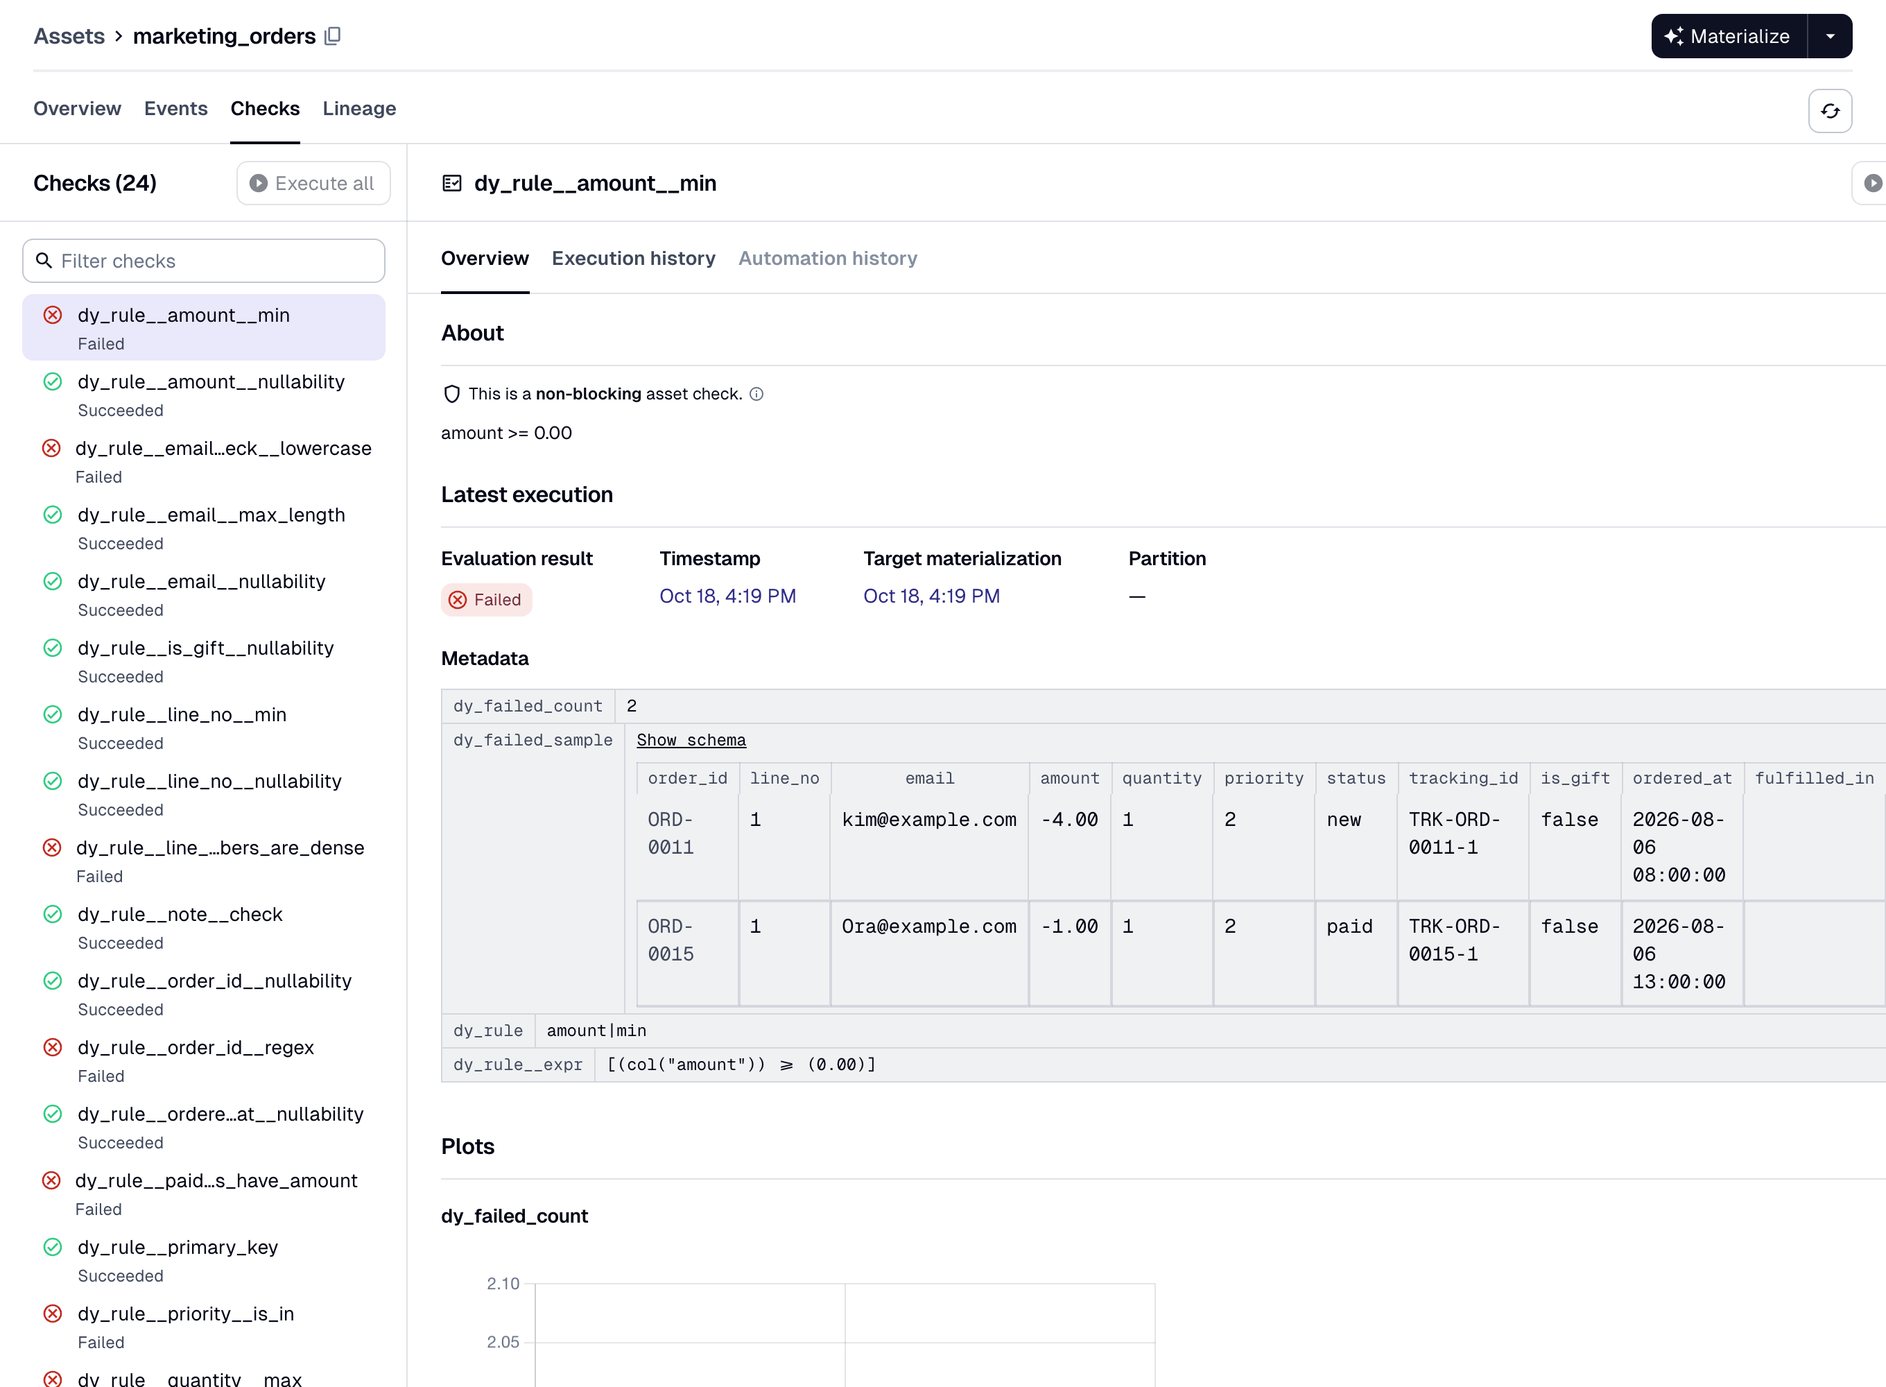
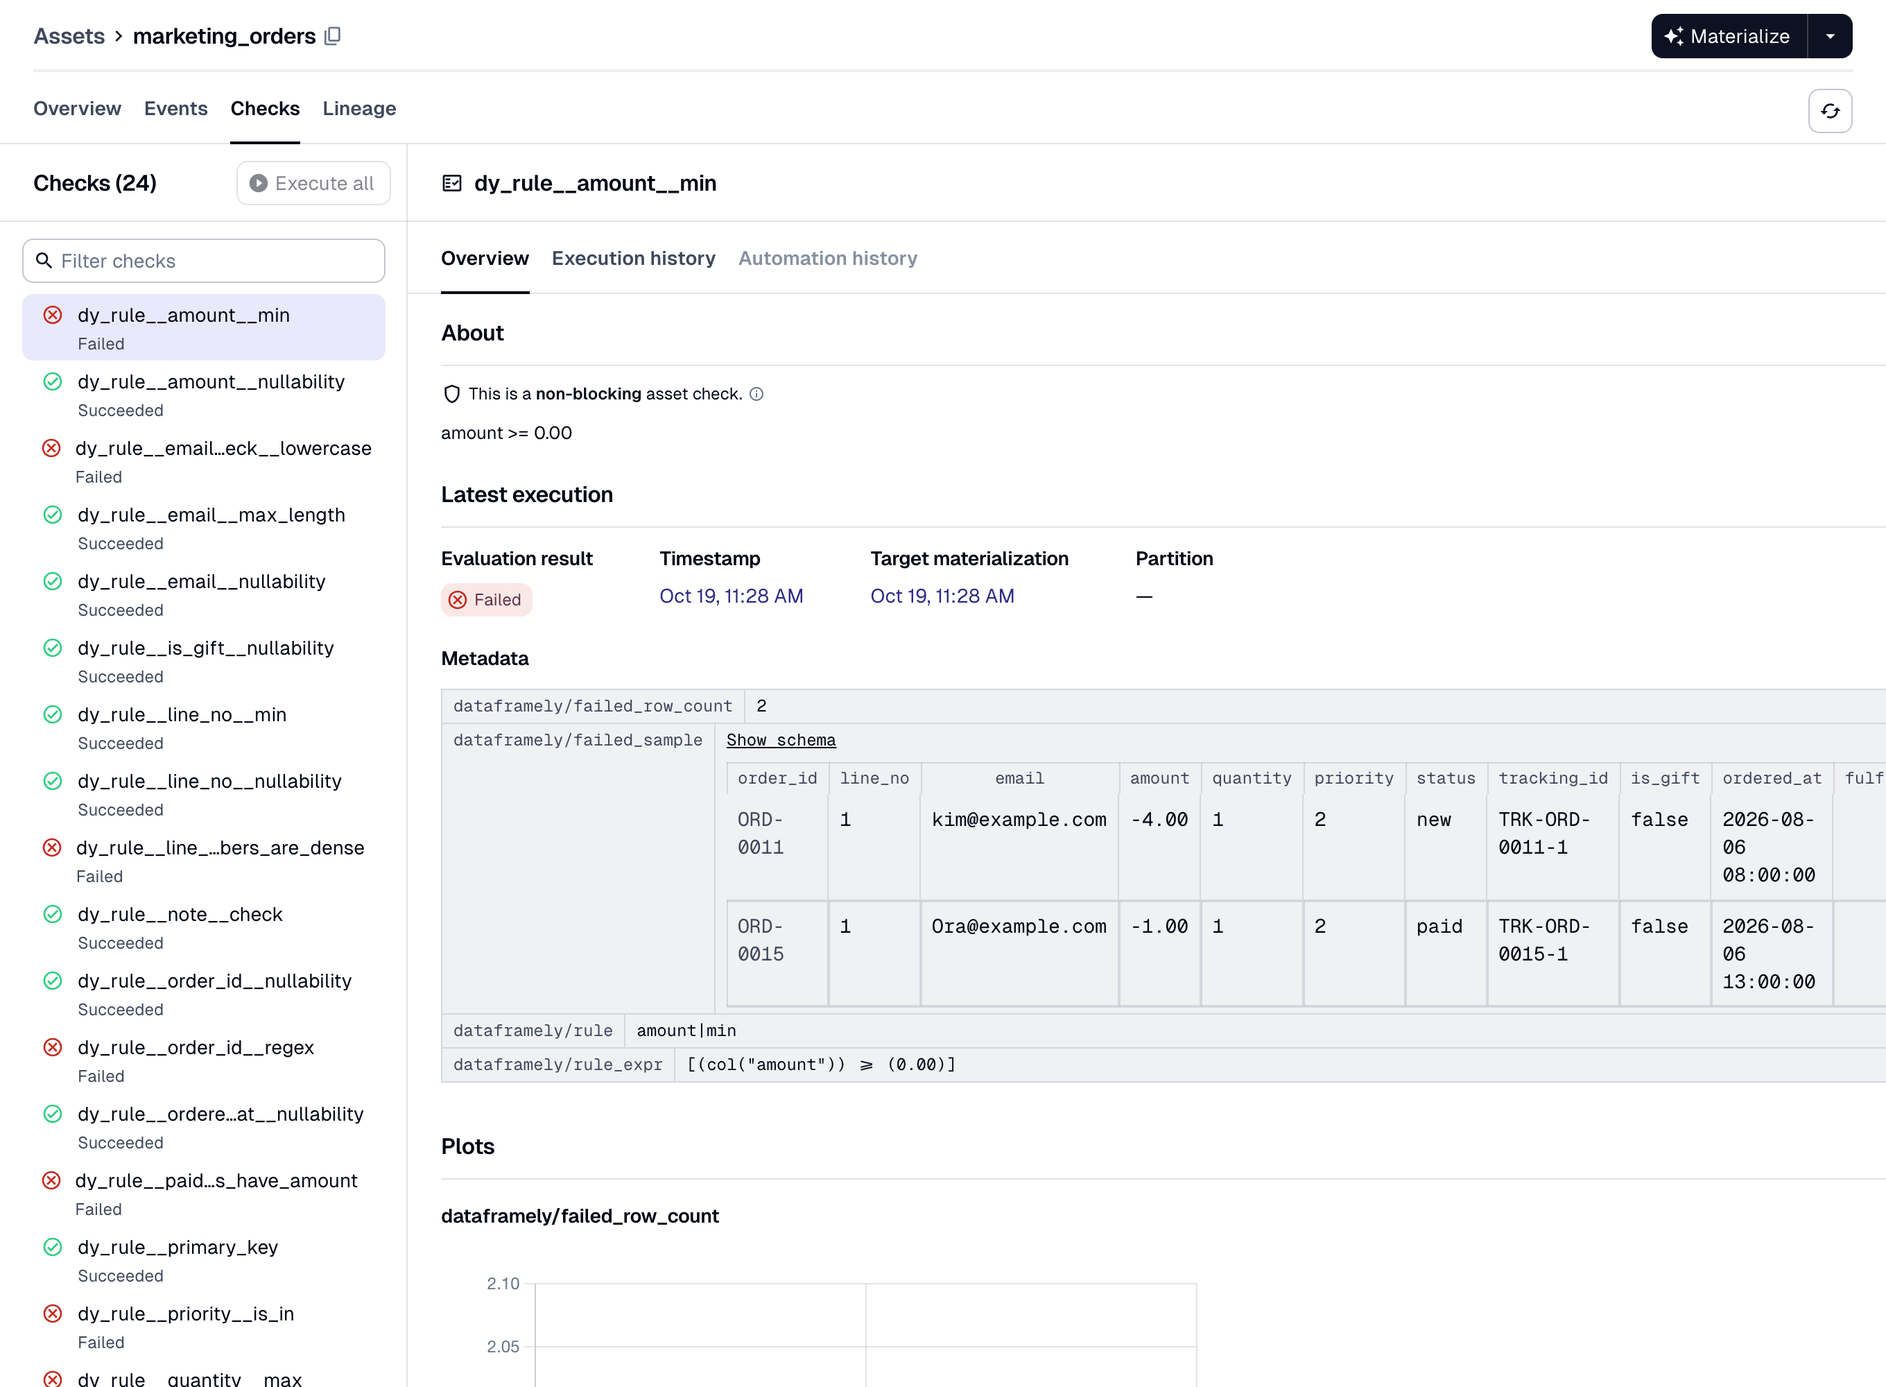
feat!: name every check-result metadata key under dataframely/
| Old key | New key |
| --- | --- |
| `dy_rule` | `dataframely/rule` |
| `dy_rule__expr` | `dataframely/rule_expr` |
| `dy_failed_count` | `dataframely/failed_row_count` |
| `dy_failed_sample` | `dataframely/failed_sample` |
| `dy_rules` | `dataframely/rules` |
| `dy_schema__errors` | `dataframely/column_schema_errors` |
| `dy_filter` | `dataframely/filter` |

`dy_` now covers only check names, rule columns and the `dy_rule` column in a collapsed check's sample.
`failed_row_count` follows dagster-dbt's `dagster_dbt/failed_row_count`.

Closes #136

diff --git a/tests/test_samples.py b/tests/test_samples.py
@@ -207,9 +207,9 @@ class TestFailureSamples:
     def test_a_failing_check_has_the_rows_that_failed_it(self, tmp_path: Path):
         result = materialize(tmp_path, _with_error_rows)
         metadata = check_evaluations(result)["dy_rule__amount__min"].metadata
-        sampled = records(metadata["dy_failed_sample"])
+        sampled = records(metadata["dataframely/failed_sample"])
 
-        assert metadata["dy_failed_count"].value == 1
+        assert metadata["dataframely/failed_row_count"].value == 1
         assert [row["order_id"] for row in sampled] == ["ORD-4"]
         assert sampled[0]["amount"] == "-4.00"
 
@@ -220,7 +220,7 @@ class TestFailureSamples:
         result = materialize(tmp_path, _with_error_rows)
         sampled = records(
             check_evaluations(result)["dy_rule__amount__min"].metadata[
-                "dy_failed_sample"
+                "dataframely/failed_sample"
             ]
         )
 
@@ -230,8 +230,8 @@ class TestFailureSamples:
         result = materialize(tmp_path, _with_error_rows)
         metadata = check_evaluations(result)["dy_rule__quantity__min"].metadata
 
-        assert "dy_failed_sample" not in metadata
-        assert {"dy_rule", "dy_rule__expr"} <= set(metadata)
+        assert "dataframely/failed_sample" not in metadata
+        assert {"dataframely/rule", "dataframely/rule_expr"} <= set(metadata)
 
     def test_the_failure_sample_is_bounded(self, tmp_path: Path):
         @dd.asset(Orders, name="orders", filter=True)
@@ -241,8 +241,8 @@ class TestFailureSamples:
         result = materialize(tmp_path, many_invalid)
         metadata = check_evaluations(result)["dy_rule__amount__min"].metadata
 
-        assert metadata["dy_failed_count"].value == _DEFAULT * 2
-        assert len(records(metadata["dy_failed_sample"])) == _DEFAULT
+        assert metadata["dataframely/failed_row_count"].value == _DEFAULT * 2
+        assert len(records(metadata["dataframely/failed_sample"])) == _DEFAULT
 
     def test_a_failure_sample_of_zero_leaves_the_key_absent_rather_than_empty(
         self,
@@ -260,8 +260,8 @@ class TestFailureSamples:
         result = materialize(tmp_path, unsampled)
         metadata = check_evaluations(result)["dy_rule__amount__min"].metadata
 
-        assert "dy_failed_sample" not in metadata
-        assert metadata["dy_failed_count"].value == 1
+        assert "dataframely/failed_sample" not in metadata
+        assert metadata["dataframely/failed_row_count"].value == 1
 
     def test_the_environment_variable_sets_the_failure_sample(
         self, tmp_path: Path, monkeypatch: pytest.MonkeyPatch
@@ -275,7 +275,7 @@ class TestFailureSamples:
         result = materialize(tmp_path, orders)
 
         assert (
-            "dy_failed_sample"
+            "dataframely/failed_sample"
             not in check_evaluations(result)["dy_rule__amount__min"].metadata
         )
 
@@ -289,7 +289,7 @@ class TestFailureSamples:
         result = materialize(tmp_path, aborting, raise_on_error=False)
         sampled = records(
             check_evaluations(result)["dy_rule__amount__min"].metadata[
-                "dy_failed_sample"
+                "dataframely/failed_sample"
             ]
         )
 
@@ -302,7 +302,9 @@ class TestFailureSamples:
         """The `dy_` namespace keeps the `dy_rule` column apart from the schema's columns."""
         result = materialize(tmp_path, _by_column)
         sampled = records(
-            check_evaluations(result)["dy_col__amount"].metadata["dy_failed_sample"]
+            check_evaluations(result)["dy_col__amount"].metadata[
+                "dataframely/failed_sample"
+            ]
         )
 
         assert [row["dy_rule"] for row in sampled] == ["amount|min"]
@@ -314,7 +316,9 @@ class TestFailureSamples:
         """The bound is per rule, so a rule one row failed still appears beside a rule many rows failed."""
         result = materialize(tmp_path, _by_column)
         sampled = records(
-            check_evaluations(result)["dy_schema__rules"].metadata["dy_failed_sample"]
+            check_evaluations(result)["dy_schema__rules"].metadata[
+                "dataframely/failed_sample"
+            ]
         )
 
         assert [row["dy_rule"] for row in sampled] == ["paid_orders_have_amount"]
@@ -337,7 +341,7 @@ class TestSampleSettings:
         ]
         assert "dataframely/table_sample" in metadata
         assert (
-            "dy_failed_sample"
+            "dataframely/failed_sample"
             in check_evaluations(result)["dy_rule__amount__min"].metadata
         )
 
@@ -358,7 +362,7 @@ class TestSampleSettings:
         assert "dataframely/table_statistics/numeric" in metadata
         assert "dataframely/table_sample" not in metadata
         assert (
-            "dy_failed_sample"
+            "dataframely/failed_sample"
             not in check_evaluations(result)["dy_rule__amount__min"].metadata
         )
 

diff --git a/tests/test_asset_runtime.py b/tests/test_asset_runtime.py
@@ -89,8 +89,8 @@ class TestCleanFrame:
         ]
         metadata = dict(evaluation.metadata)
 
-        assert metadata["dy_rule"].value == "amount|min"
-        assert 'col("amount")' in str(metadata["dy_rule__expr"].value)
+        assert metadata["dataframely/rule"].value == "amount|min"
+        assert 'col("amount")' in str(metadata["dataframely/rule_expr"].value)
 
 
 # `_REJECTED_RETURNS` in `tests/test_returned_result.py` covers the frame guard, in a call and in a run.
@@ -270,7 +270,7 @@ class TestColumnSchemaMismatch:
     ):
         result = materialize(tmp_path, _wrong_dtype, raise_on_error=False)
         metadata = dict(check_evaluations(result)["dy_schema__columns"].metadata)
-        errors = metadata["dy_schema__errors"]
+        errors = metadata["dataframely/column_schema_errors"]
 
         assert isinstance(errors, dg.TableMetadataValue)
         assert [dict(record.data) for record in errors.records] == [
@@ -315,7 +315,9 @@ class TestErrorRowsWithoutFilter:
             "dy_rule__paid_orders_have_amount",
         }
         assert (
-            dict(evaluations["dy_rule__amount__min"].metadata)["dy_failed_count"].value
+            dict(evaluations["dy_rule__amount__min"].metadata)[
+                "dataframely/failed_row_count"
+            ].value
             == 1
         )
 
@@ -423,7 +425,10 @@ class TestFilterWithValidRows:
 
         assert any(e.passed for e in rules)
         assert any(not e.passed for e in rules)
-        assert all({"dy_rule", "dy_rule__expr"} <= set(e.metadata) for e in rules)
+        assert all(
+            {"dataframely/rule", "dataframely/rule_expr"} <= set(e.metadata)
+            for e in rules
+        )
 
     def test_downstream_proceeds_on_the_data_that_is_fine(self, tmp_path: Path):
         """The rules' checks are not blocking, so the downstream asset runs on the valid rows."""
@@ -582,7 +587,9 @@ class TestFilterWithNoValidRows:
             e.severity == dg.AssetCheckSeverity.ERROR for e in rules if not e.passed
         )
         assert (
-            dict(evaluations["dy_rule__amount__min"].metadata)["dy_failed_count"].value
+            dict(evaluations["dy_rule__amount__min"].metadata)[
+                "dataframely/failed_row_count"
+            ].value
             == 2
         )
 
@@ -751,7 +758,7 @@ def _by_schema() -> pl.DataFrame:
 
 def _members(evaluation: dg.AssetCheckEvaluation) -> dict[object, object]:
     """Return the failure count of each rule in a collapsed check."""
-    table = dict(evaluation.metadata)["dy_rules"]
+    table = dict(evaluation.metadata)["dataframely/rules"]
     assert isinstance(table, dg.TableMetadataValue)
     return {record.data["rule"]: record.data["failed"] for record in table.records}
 
@@ -793,7 +800,7 @@ class TestCollapsedChecks:
         evaluation = check_evaluations(materialize(tmp_path, _by_column))[
             "dy_col__amount"
         ]
-        table = dict(evaluation.metadata)["dy_rules"]
+        table = dict(evaluation.metadata)["dataframely/rules"]
 
         assert isinstance(table, dg.TableMetadataValue)
         assert all(record.data["expr"] for record in table.records)
@@ -836,6 +843,23 @@ class TestCollapsedChecks:
 
         assert "dy_rule__amount__min" in error_rows.columns
         assert not [name for name in error_rows.columns if name.startswith("dy_col__")]
+
+
+class TestMetadataKeys:
+    """The metadata keys of a failing check."""
+
+    @pytest.mark.parametrize(
+        ("asset", "check"),
+        [(_filtered, "dy_rule__amount__min"), (_by_column, "dy_col__amount")],
+        ids=["rule", "column"],
+    )
+    def test_a_failing_check_names_every_key_under_dataframely(
+        self, tmp_path: Path, asset: dg.AssetsDefinition, check: str
+    ):
+        evaluation = check_evaluations(materialize(tmp_path, asset))[check]
+
+        assert not evaluation.passed
+        assert all(key.startswith("dataframely/") for key in evaluation.metadata)
 
 
 _ADDRESS = "orders__error_rows"

diff --git a/src/dagster_dataframely/_checks.py b/src/dagster_dataframely/_checks.py
@@ -208,7 +208,7 @@ def column_schema_result(
         passed=False,
         severity=dg.AssetCheckSeverity.ERROR,
         metadata={
-            "dy_schema__errors": dg.MetadataValue.table([
+            "dataframely/column_schema_errors": dg.MetadataValue.table([
                 dg.TableRecord(problem) for problem in problems
             ])
         },
@@ -271,12 +271,13 @@ def _rule_metadata(
 ) -> dict[str, str | int | dg.TableMetadataValue]:
     """Return the metadata of a check for one rule."""
     metadata: dict[str, str | int | dg.TableMetadataValue] = {
-        "dy_rule": rule.name,
-        "dy_rule__expr": str(rule.expr),
+        "dataframely/rule": rule.name,
+        "dataframely/rule_expr": str(rule.expr),
     }
     if failed:
-        metadata["dy_failed_count"] = failed
-    return metadata | sample_metadata("dy_failed_sample", sampled)
+        # The key follows dagster-dbt's `dagster_dbt/failed_row_count`.
+        metadata["dataframely/failed_row_count"] = failed
+    return metadata | sample_metadata("dataframely/failed_sample", sampled)
 
 
 def _collapsed_metadata(
@@ -286,7 +287,7 @@ def _collapsed_metadata(
 ) -> dict[str, dg.TableMetadataValue]:
     """Return the metadata of a check for several rules."""
     metadata: dict[str, dg.TableMetadataValue] = {
-        "dy_rules": dg.MetadataValue.table([
+        "dataframely/rules": dg.MetadataValue.table([
             dg.TableRecord({
                 "rule": rule.name,
                 "failed": failed[rule.name],
@@ -300,7 +301,7 @@ def _collapsed_metadata(
         for rule in rules
         for row in sampled.get(rule.name, [])
     ]
-    return metadata | sample_metadata("dy_failed_sample", attributed)
+    return metadata | sample_metadata("dataframely/failed_sample", attributed)
 
 
 def rule_check_results(  # noqa: PLR0913 - takes the specs' settings

diff --git a/tests/test_collection_checks.py b/tests/test_collection_checks.py
@@ -331,9 +331,12 @@ class TestRun:
         evaluation = evaluations(result)[ORDERS_CHECK]
         assert not evaluation.passed
         assert evaluation.severity == dg.AssetCheckSeverity.ERROR
-        assert evaluation.metadata["dy_filter"].value == "order_references_customer"
-        assert evaluation.metadata["dy_failed_count"].value == 1
-        assert records(evaluation.metadata["dy_failed_sample"]) == [
+        assert (
+            evaluation.metadata["dataframely/filter"].value
+            == "order_references_customer"
+        )
+        assert evaluation.metadata["dataframely/failed_row_count"].value == 1
+        assert records(evaluation.metadata["dataframely/failed_sample"]) == [
             {"order_id": 12, "customer_id": 99}
         ]
 
@@ -344,9 +347,12 @@ class TestRun:
 
         evaluation = evaluations(result)[ORDERS_CHECK]
         assert evaluation.passed
-        assert evaluation.metadata["dy_filter"].value == "order_references_customer"
-        assert "dy_failed_count" not in evaluation.metadata
-        assert "dy_failed_sample" not in evaluation.metadata
+        assert (
+            evaluation.metadata["dataframely/filter"].value
+            == "order_references_customer"
+        )
+        assert "dataframely/failed_row_count" not in evaluation.metadata
+        assert "dataframely/failed_sample" not in evaluation.metadata
 
     def test_a_failing_error_check_stops_its_members_downstream_asset(
         self, tmp_path: Path

diff --git a/src/dagster_dataframely/_asset.py b/src/dagster_dataframely/_asset.py
@@ -107,7 +107,7 @@ def asset(  # noqa: PLR0913 - forwards `@dg.asset`'s parameters
     schema_rules
         Which checks report the schema-level rules at `column` granularity: `collapsed` into one check, `dy_schema__rules`, or `per_rule`, one check each. `None` uses `DAGSTER_DATAFRAMELY_SCHEMA_RULES` if set, else `collapsed`.
     max_failure_samples
-        A rule's check metadata has at most this many rows that failed it, under `dy_failed_sample`. **A run writes the rows to the Dagster event log unredacted.** `dy.Config.set_max_failure_examples` does not change this number. `None` uses `DAGSTER_DATAFRAMELY_MAX_FAILURE_SAMPLES` if set, else `5`.
+        A rule's check metadata has at most this many rows that failed it, under `dataframely/failed_sample`. **A run writes the rows to the Dagster event log unredacted.** `dy.Config.set_max_failure_examples` does not change this number. `None` uses `DAGSTER_DATAFRAMELY_MAX_FAILURE_SAMPLES` if set, else `5`.
     statistics
         Whether the materialization metadata has statistics of the written rows, one table per dtype group. `None` uses `DAGSTER_DATAFRAMELY_STATISTICS` if set, else `True`.
     row_sample

diff --git a/src/dagster_dataframely/_collection.py b/src/dagster_dataframely/_collection.py
@@ -165,15 +165,15 @@ def collection_checks(
                 continue
             failed: int = failure[check.member].counts().get(check.filter_name, 0)
             metadata: dict[str, str | int | dg.TableMetadataValue] = {
-                "dy_filter": check.filter_name
+                "dataframely/filter": check.filter_name
             }
             if failed:
                 # The member's own columns, without the rule columns `details()` adds.
                 columns: list[str] = lazy_frames[check.member].collect_schema().names()
                 details: pl.DataFrame = failure[check.member].details()
-                metadata["dy_failed_count"] = failed
+                metadata["dataframely/failed_row_count"] = failed
                 metadata |= sample_metadata(
-                    "dy_failed_sample",
+                    "dataframely/failed_sample",
                     sample_rows(
                         details.filter(pl.col(check.filter_name) == "invalid").select(
                             columns

diff --git a/tests/test_testing.py b/tests/test_testing.py
@@ -80,7 +80,7 @@ class TestDirectInvocationResult:
         assert_frame_equal(result.materialization.value, clean_orders())
         failed = result.checks["dy_rule__amount__min"]
         assert not failed.passed
-        assert "dy_failed_sample" in failed.metadata
+        assert "dataframely/failed_sample" in failed.metadata
 
     def test_a_warn_only_failure_keeps_every_row_and_fails_at_warn(self):
         @dd.asset(Amounts)

diff --git a/CONTEXT.md b/CONTEXT.md
@@ -196,10 +196,9 @@ A sample is absent, never empty.
 _Avoid_: preview, example, head
 
 **Reserved namespace**: Three namespaces.
-`dy_` starts every check name, rule column and check-result metadata key this package generates, and nothing a user types.
+`dy_` starts every check name, every rule column and the `dy_rule` column of a collapsed check's sample, and nothing a user types.
 So the decorator is `dd.asset`, not `dy_asset`.
-The error-rows address is the exception: when the package writes no table, the table has no materialization, so each check result has `dataframely/error_rows_address`, the same key the table's materialization uses (ADR-0004).
-`dataframely/` starts every materialization and definition metadata key this package names, as `dagster/` does for Dagster.
+`dataframely/` starts every metadata key this package names, on a materialization, a definition or a check result, as `dagster/` does for Dagster.
 The valid row count is the exception, because Dagster already has keys for it: `dagster/partition_row_count` on a partitioned asset, and `dagster/row_count` otherwise.
 `<name>__error_rows` is the default error-rows key.
 Only this package generates names in the first two.

diff --git a/README.md b/README.md
@@ -41,7 +41,7 @@ From that one declaration you get:
 
 - **A blocking column-schema check** that compares the frame's columns and dtypes with the schema's, before `Schema.filter` runs.
 
-  ![A run log where the `quantity` column is `Int64`. The failing `dy_schema__columns` check has `dy_schema__errors`, which shows the expected and actual dtype. The step failure below it names the same column in the `ColumnSchemaError` message.](https://raw.githubusercontent.com/ozanozbeker/dagster-dataframely/main/assets/images/error-column-schema.png)
+  ![A run log where the `quantity` column is `Int64`. The failing `dy_schema__columns` check has `dataframely/column_schema_errors`, which shows the expected and actual dtype. The step failure below it names the same column in the `ColumnSchemaError` message.](https://raw.githubusercontent.com/ozanozbeker/dagster-dataframely/main/assets/images/error-column-schema.png)
 
 - **A severity for each rule**, `"error"` by default or `"warn"`, declared in the schema.
   A row that fails an `"error"` rule fails the run, and a row that fails only `"warn"` rules is written with a warning.
